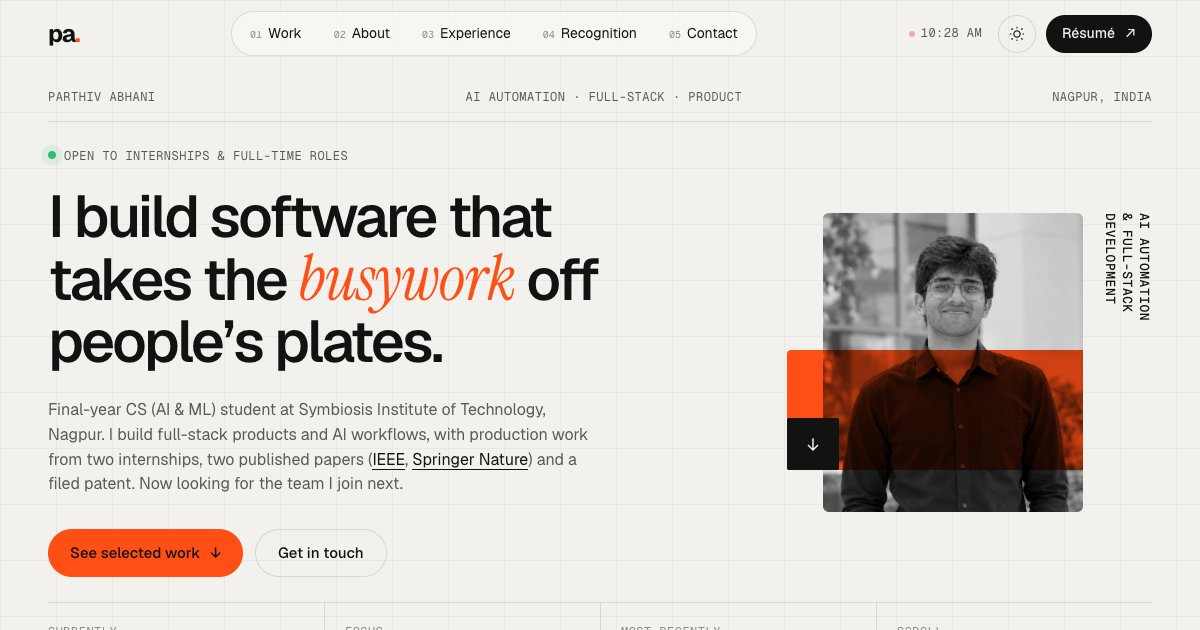
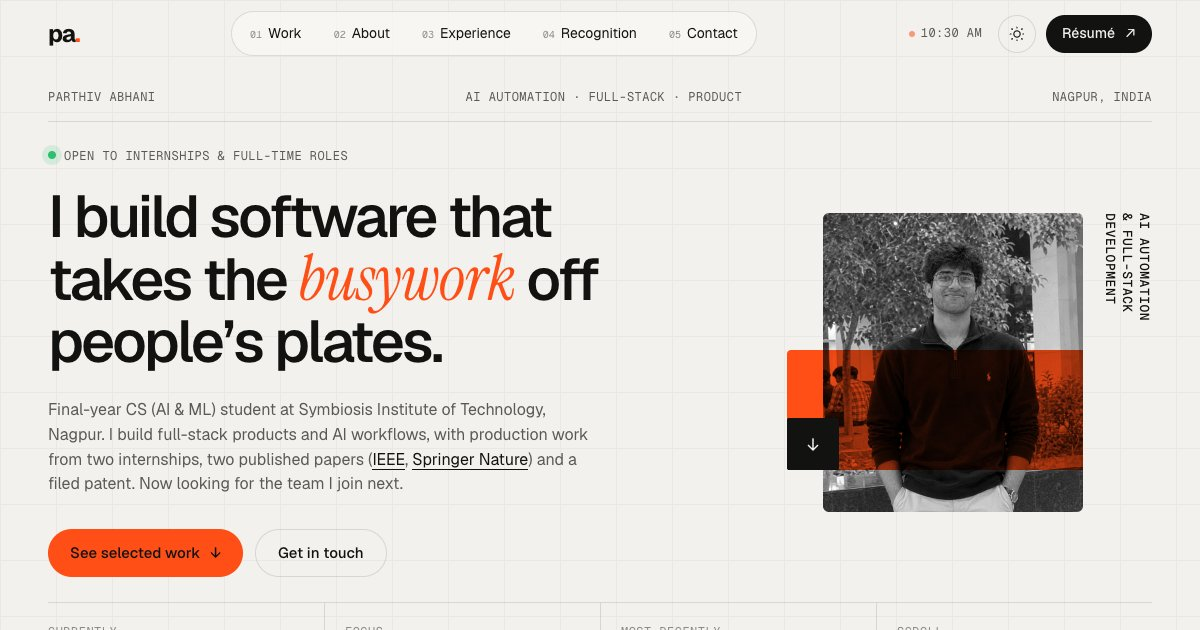
New hero photo

Changed region(s): [[0.6783, 0.3317, 0.925, 0.8143]]

diff --git a/index.html b/index.html
@@ -108,7 +108,7 @@
         <div class="hero__visual reveal">
           <div class="hero__photo" data-tilt>
             <div class="hero__block"></div>
-            <img decoding="async" src="assets/me.jpg" alt="Portrait of Parthiv Abhani" width="870" height="1000" />
+            <img decoding="async" src="assets/me.jpg" alt="Portrait of Parthiv Abhani" width="660" height="760" />
             <div class="hero__band"></div>
             <a href="#work" class="hero__arrow" aria-label="Scroll to work" data-cursor="Scroll">
               <svg viewBox="0 0 24 24" width="20" height="20" fill="none" stroke="currentColor" stroke-width="1.8"><path d="M5 12h14M13 6l6 6-6 6"/></svg>
